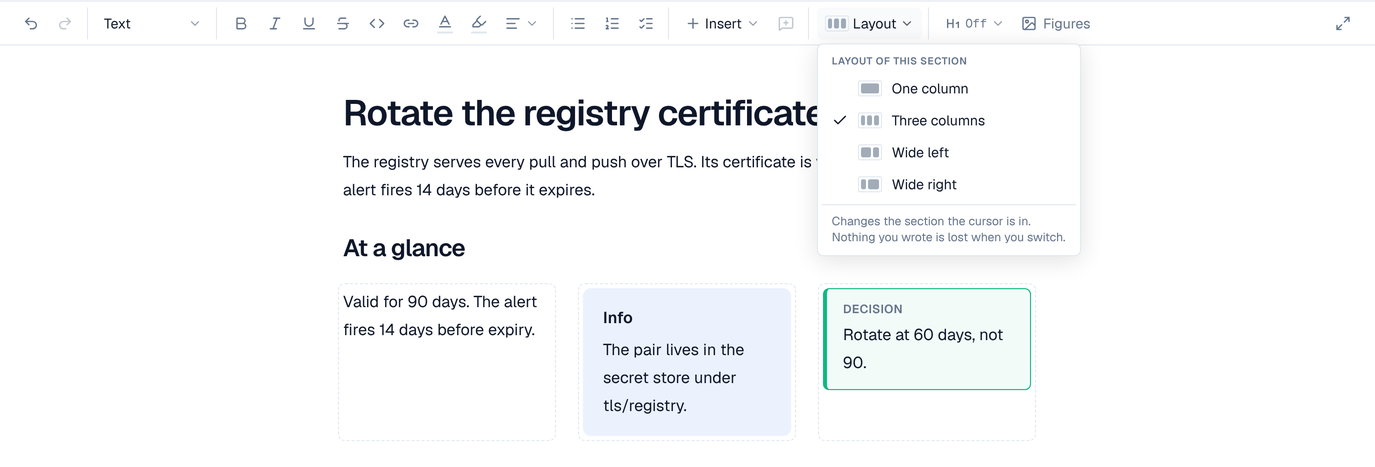
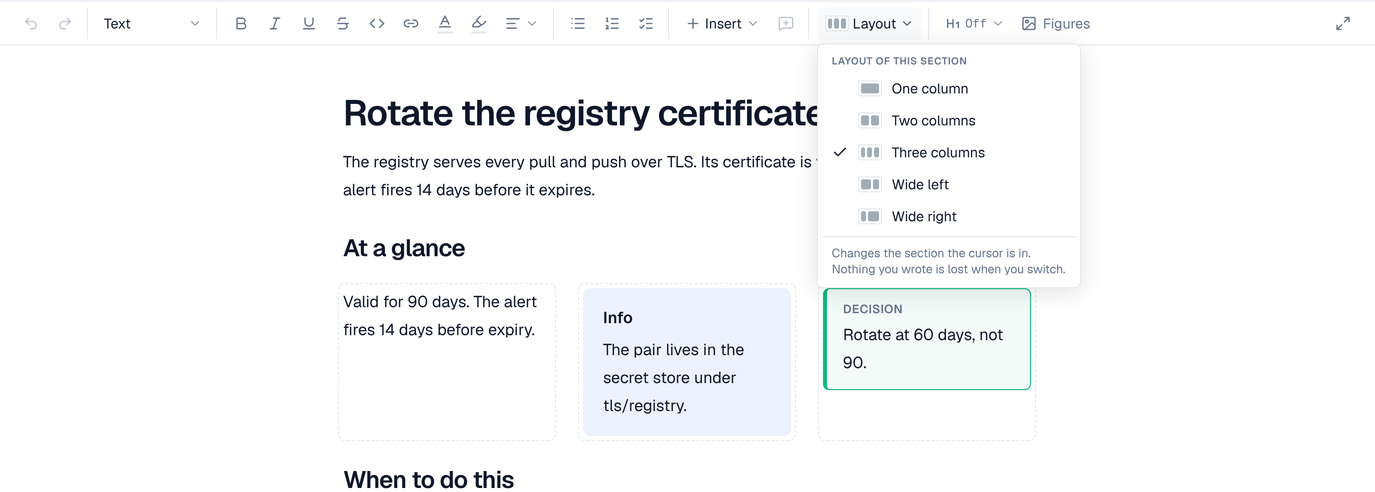
Wiki docs: Confluence layouts import as columns; Two columns layout
Claude-Session: https://claude.ai/code/session_015HRwaZfq9rZQUMM4xPuZvK

diff --git a/wiki/docs/changelog.html b/wiki/docs/changelog.html
@@ -40,7 +40,7 @@
 
       <article class="vc-doc">
       <h2 id="since-the-initial-release" class="text-2xl font-semibold mt-10 mb-4 scroll-mt-28">1. Since the initial release</h2>
-      <div class="tbl-wrap"><table><thead><tr><th>Date</th><th>Feature</th><th>Change</th></tr></thead><tbody><tr><td>2026-11-21</td><td>Editor</td><td>Sections: the editor groups a page into sections (a heading, text up to an empty line, each macro or other block) that can be moved up and down or selected whole from a handle at the right; text colour and highlight in six theme colours; and rows of columns (three equal, wide left, wide right) from the new Layout menu.</td></tr><tr><td>2026-11-20</td><td>Install</td><td>The reverse proxy can send everything under <span class="font-mono text-sm break-words">/api</span> straight to the server, and the Caddy and nginx examples now do: API calls no longer use the web app's CPU, which was the first thing to run out under load. The server sets the security headers of API responses itself. A proxy that routes only <span class="font-mono text-sm break-words">/api/ws</span> keeps working. See <a href="../admin/install.html" class="text-cta hover:underline">Install the Wiki</a>.</td></tr><tr><td>2026-11-20</td><td>Security</td><td>The server takes <span class="font-mono text-sm break-words">X-Forwarded-For</span>, <span class="font-mono text-sm break-words">X-Forwarded-Host</span>, <span class="font-mono text-sm break-words">X-Forwarded-Proto</span> and <span class="font-mono text-sm break-words">X-Real-IP</span> only from the proxies in <span class="font-mono text-sm break-words">TRUSTED_PROXIES</span> (the same host by default) and removes them from anyone else. If your reverse proxy runs on another host and isn't listed, add it: the system check's new <strong class="text-text">Forwarded headers</strong> line names an address that was refused.</td></tr><tr><td>2026-11-20</td><td>Performance</td><td>Pages are much smaller: each one carried every text of the screen's area again, and now the browser loads those once and keeps them.</td></tr><tr><td>2026-11-20</td><td>Sign-in</td><td>Links from invitation and password emails now open when the web app passes API calls on: the link's token was dropped on the way, so the page said the link was invalid.</td></tr><tr><td>2026-11-20</td><td>Interface</td><td>Counts read right for one: a board's "1 of 1 vote left", an import's "1 of 1 page", the Recently updated block's summary and the note when a mirror source is removed.</td></tr><tr><td>2026-11-19</td><td>Pages</td><td>Page locks: a page and the pages under it can be kept to some people and groups, or opened to everyone to read and only some to edit; locked pages stay out of the tree, search, labels, the calendar, analytics, alerts and blocks for everyone else, and space admins see and remove locks in Space settings → Locked pages.</td></tr><tr><td>2026-11-19</td><td>Spaces</td><td>Spaces get an icon (one of 24 built-in images, initials in a theme colour, or an uploaded image), up to 10 labels shared with pages, a category from Settings → Space categories, archiving (read-only until restored) and personal stars that pin spaces to the top of the space list, which can now be filtered by category and label.</td></tr><tr><td>2026-11-19</td><td>Templates</td><td>A template library under Settings → Templates that every space starts pages from, with twelve ready-made templates; a template can create a whole tree of pages; spaces can switch library templates off or keep their own version; and templates can be written in a template editor.</td></tr><tr><td>2026-11-18</td><td>Mirror spaces</td><td>Mirror spaces (Pro): a space can show the docs of a git repository (GitHub, GitLab, Gitea, Forgejo, Bitbucket Cloud) or of uploaded archives as read-only pages, synced on a schedule, by webhook or from a pipeline, with suggested edits as pull or merge requests and a button to convert the space back. A mirror space is chosen when the space is created and has only the tabs a mirror needs.</td></tr><tr><td>2026-11-18</td><td>Pages</td><td>Mermaid diagrams: flowcharts, sequence diagrams and more drawn from text on any page, in the reader's light or dark theme.</td></tr><tr><td>2026-11-18</td><td>Pages</td><td>HTML blocks: space admins can run their own HTML, CSS and JavaScript on pages in a sandbox that reaches only the sites listed in Settings → Security → HTML blocks (off by default).</td></tr><tr><td>2026-11-18</td><td>Whiteboards</td><td>Whiteboards are safer to share: visitors of public spaces who aren't signed in no longer see history or downloads, a board too large to read keeps showing its last picture and can be reset to it, very complex boards are drawn within limits (downloads say when a board is too complex), and new comment pins need the Enterprise licence.</td></tr><tr><td>2026-11-18</td><td>Whiteboards</td><td>Whiteboards can be facilitated (a shared timer, dot voting, private mode that hides new notes until revealed, and follow me), new boards can start with notes hidden, mind maps grow with Enter and Tab, an items list reads the board in order for keyboards and screen readers, and the toolbar folds to seven tools on phones.</td></tr><tr><td>2026-11-18</td><td>Whiteboards</td><td>Live whiteboards (Enterprise): sticky notes, pens, shapes, connectors and frames drawn together with everyone's cursors, six canvas types and space templates, comments, versions and downloads, a read-only view, and a whiteboard block for pages.</td></tr><tr><td>2026-11-18</td><td>Space blogs</td><td>Blog posts in a Confluence export can become posts on the space's blog, a post downloaded as Word or PDF starts with its date, authors and cover image, and plugins can add a panel to a space's Blog tab.</td></tr><tr><td>2026-11-18</td><td>Space blogs</td><td>A Blogs page gathers the posts of every blog you can read, the dashboard shows the latest posts of the blogs you follow, search finds posts, and space analytics have a Posts tab.</td></tr><tr><td>2026-11-17</td><td>Space blogs</td><td>Blogs can require review before a post is first published, tell their followers about new posts, and be followed in a feed reader through a public or personal feed address.</td></tr><tr><td>2026-11-17</td><td>Space blogs</td><td>Each space has a Blog tab for dated posts, with featured posts, an archive by month, following, co-authors, cover images and blog settings for space admins.</td></tr></tbody></table></div>
+      <div class="tbl-wrap"><table><thead><tr><th>Date</th><th>Feature</th><th>Change</th></tr></thead><tbody><tr><td>2026-11-21</td><td>Imports</td><td>Confluence page layouts are imported as rows of columns instead of one block under the other, and the editor's Layout menu gains Two columns.</td></tr><tr><td>2026-11-21</td><td>Editor</td><td>Sections: the editor groups a page into sections (a heading, text up to an empty line, each macro or other block) that can be moved up and down or selected whole from a handle at the right; text colour and highlight in six theme colours; and rows of columns (three equal, wide left, wide right) from the new Layout menu.</td></tr><tr><td>2026-11-20</td><td>Install</td><td>The reverse proxy can send everything under <span class="font-mono text-sm break-words">/api</span> straight to the server, and the Caddy and nginx examples now do: API calls no longer use the web app's CPU, which was the first thing to run out under load. The server sets the security headers of API responses itself. A proxy that routes only <span class="font-mono text-sm break-words">/api/ws</span> keeps working. See <a href="../admin/install.html" class="text-cta hover:underline">Install the Wiki</a>.</td></tr><tr><td>2026-11-20</td><td>Security</td><td>The server takes <span class="font-mono text-sm break-words">X-Forwarded-For</span>, <span class="font-mono text-sm break-words">X-Forwarded-Host</span>, <span class="font-mono text-sm break-words">X-Forwarded-Proto</span> and <span class="font-mono text-sm break-words">X-Real-IP</span> only from the proxies in <span class="font-mono text-sm break-words">TRUSTED_PROXIES</span> (the same host by default) and removes them from anyone else. If your reverse proxy runs on another host and isn't listed, add it: the system check's new <strong class="text-text">Forwarded headers</strong> line names an address that was refused.</td></tr><tr><td>2026-11-20</td><td>Performance</td><td>Pages are much smaller: each one carried every text of the screen's area again, and now the browser loads those once and keeps them.</td></tr><tr><td>2026-11-20</td><td>Sign-in</td><td>Links from invitation and password emails now open when the web app passes API calls on: the link's token was dropped on the way, so the page said the link was invalid.</td></tr><tr><td>2026-11-20</td><td>Interface</td><td>Counts read right for one: a board's "1 of 1 vote left", an import's "1 of 1 page", the Recently updated block's summary and the note when a mirror source is removed.</td></tr><tr><td>2026-11-19</td><td>Pages</td><td>Page locks: a page and the pages under it can be kept to some people and groups, or opened to everyone to read and only some to edit; locked pages stay out of the tree, search, labels, the calendar, analytics, alerts and blocks for everyone else, and space admins see and remove locks in Space settings → Locked pages.</td></tr><tr><td>2026-11-19</td><td>Spaces</td><td>Spaces get an icon (one of 24 built-in images, initials in a theme colour, or an uploaded image), up to 10 labels shared with pages, a category from Settings → Space categories, archiving (read-only until restored) and personal stars that pin spaces to the top of the space list, which can now be filtered by category and label.</td></tr><tr><td>2026-11-19</td><td>Templates</td><td>A template library under Settings → Templates that every space starts pages from, with twelve ready-made templates; a template can create a whole tree of pages; spaces can switch library templates off or keep their own version; and templates can be written in a template editor.</td></tr><tr><td>2026-11-18</td><td>Mirror spaces</td><td>Mirror spaces (Pro): a space can show the docs of a git repository (GitHub, GitLab, Gitea, Forgejo, Bitbucket Cloud) or of uploaded archives as read-only pages, synced on a schedule, by webhook or from a pipeline, with suggested edits as pull or merge requests and a button to convert the space back. A mirror space is chosen when the space is created and has only the tabs a mirror needs.</td></tr><tr><td>2026-11-18</td><td>Pages</td><td>Mermaid diagrams: flowcharts, sequence diagrams and more drawn from text on any page, in the reader's light or dark theme.</td></tr><tr><td>2026-11-18</td><td>Pages</td><td>HTML blocks: space admins can run their own HTML, CSS and JavaScript on pages in a sandbox that reaches only the sites listed in Settings → Security → HTML blocks (off by default).</td></tr><tr><td>2026-11-18</td><td>Whiteboards</td><td>Whiteboards are safer to share: visitors of public spaces who aren't signed in no longer see history or downloads, a board too large to read keeps showing its last picture and can be reset to it, very complex boards are drawn within limits (downloads say when a board is too complex), and new comment pins need the Enterprise licence.</td></tr><tr><td>2026-11-18</td><td>Whiteboards</td><td>Whiteboards can be facilitated (a shared timer, dot voting, private mode that hides new notes until revealed, and follow me), new boards can start with notes hidden, mind maps grow with Enter and Tab, an items list reads the board in order for keyboards and screen readers, and the toolbar folds to seven tools on phones.</td></tr><tr><td>2026-11-18</td><td>Whiteboards</td><td>Live whiteboards (Enterprise): sticky notes, pens, shapes, connectors and frames drawn together with everyone's cursors, six canvas types and space templates, comments, versions and downloads, a read-only view, and a whiteboard block for pages.</td></tr><tr><td>2026-11-18</td><td>Space blogs</td><td>Blog posts in a Confluence export can become posts on the space's blog, a post downloaded as Word or PDF starts with its date, authors and cover image, and plugins can add a panel to a space's Blog tab.</td></tr><tr><td>2026-11-18</td><td>Space blogs</td><td>A Blogs page gathers the posts of every blog you can read, the dashboard shows the latest posts of the blogs you follow, search finds posts, and space analytics have a Posts tab.</td></tr><tr><td>2026-11-17</td><td>Space blogs</td><td>Blogs can require review before a post is first published, tell their followers about new posts, and be followed in a feed reader through a public or personal feed address.</td></tr><tr><td>2026-11-17</td><td>Space blogs</td><td>Each space has a Blog tab for dated posts, with featured posts, an archive by month, following, co-authors, cover images and blog settings for space admins.</td></tr></tbody></table></div>
       <h2 id="initial-release" class="text-2xl font-semibold mt-10 mb-4 scroll-mt-28">2. Initial release</h2>
       <p class="text-muted mb-4">The first release of the Wiki: a self-hosted team wiki that runs on a single server or as a cluster, with the same features either way. Later releases are listed above this one as they ship.</p>
       <div class="tbl-wrap"><table><thead><tr><th>Area</th><th>What's included</th></tr></thead><tbody><tr><td>Spaces</td><td><a href="spaces.html" class="text-cta hover:underline">Spaces</a> that are private, internal or public, with roles for people and groups, a page tree, space settings, templates and a trash for deleted pages.</td></tr><tr><td>Pages and the editor</td><td>A Word-like <a href="editor.html" class="text-cta hover:underline">editor</a> with headings and heading numbers, lists, tables, images with captions, videos and the "/" menu; <a href="macros.html" class="text-cta hover:underline">blocks and macros</a> such as panels, expands, decisions, excerpts and includes, page properties and reports, status, child pages, the page tree, recently updated and spreadsheet tables with formulas; <a href="labels-and-feedback.html" class="text-cta hover:underline">labels and "Was this page helpful?"</a>; <a href="copies-and-templates.html" class="text-cta hover:underline">copies and templates</a>.</td></tr><tr><td>Writing together</td><td><a href="editing-together.html" class="text-cta hover:underline">Live editing</a> with everyone's cursors, autosave, <a href="drafts-and-publishing.html" class="text-cta hover:underline">drafts, publishing and scheduled publishing</a>, <a href="reviews.html" class="text-cta hover:underline">review requests and review-by dates</a>, <a href="page-history-and-versions.html" class="text-cta hover:underline">versions you can compare and restore</a>, <a href="comments.html" class="text-cta hover:underline">comments</a>, and <a href="profile-and-notifications.html" class="text-cta hover:underline">watching and mentions</a>.</td></tr><tr><td>Q&amp;A</td><td>Company-wide <a href="qna.html" class="text-cta hover:underline">questions and answers</a>: votes, accepted answers, comments, follows, duplicates, mentions of people and pages, reputation, and public questions for anonymous readers; <a href="../admin/qna-moderation.html" class="text-cta hover:underline">moderation</a>.</td></tr><tr><td>Calendars</td><td><a href="calendar.html" class="text-cta hover:underline">Space calendars</a> with events, leave and repeats, publishing plans and review dates, and a <a href="../admin/calendar-feeds.html" class="text-cta hover:underline">secret feed address</a> for calendar apps.</td></tr><tr><td>Analytics</td><td><a href="analytics.html" class="text-cta hover:underline">Page, space and personal analytics</a> and content health (stale pages, old drafts, broken links, disliked pages, searches that find nothing), with CSV export (Pro).</td></tr><tr><td>Moving content</td><td><a href="import-and-export.html" class="text-cta hover:underline">Import</a> Markdown files or <a href="../admin/confluence-import.html" class="text-cta hover:underline">a space from Confluence</a>, <a href="mirror-spaces.html" class="text-cta hover:underline">mirror</a> a docs repository, and export pages as Word or PDF.</td></tr><tr><td>Readers outside the company</td><td><a href="../admin/anonymous-access.html" class="text-cta hover:underline">Anonymous access</a> to public spaces and public questions, and <a href="../admin/search-engines-and-robots.html" class="text-cta hover:underline">robots.txt for search engines</a>.</td></tr><tr><td>Platform</td><td>Everything the Wiki shares with Depotex: <a href="../admin/users-and-directories.html" class="text-cta hover:underline">users and directories</a>, <a href="../admin/single-sign-on.html" class="text-cta hover:underline">single sign-on</a>, <a href="api-tokens.html" class="text-cta hover:underline">API tokens</a>, <a href="oauth-applications.html" class="text-cta hover:underline">OAuth applications</a>, <a href="../admin/rate-limits.html" class="text-cta hover:underline">rate limits</a>, <a href="../admin/policies.html" class="text-cta hover:underline">policies</a>, <a href="../admin/automation.html" class="text-cta hover:underline">automation</a> on <a href="events.html" class="text-cta hover:underline">events</a>, <a href="../admin/plugins.html" class="text-cta hover:underline">plugins</a> (including plugin blocks in pages), the <a href="../admin/logging-and-audit.html" class="text-cta hover:underline">audit log</a>, <a href="../admin/personal-data.html" class="text-cta hover:underline">personal data export and erasure</a>, <a href="../admin/backups.html" class="text-cta hover:underline">backups</a>, the <a href="../admin/system-check.html" class="text-cta hover:underline">system check</a>, <a href="../admin/monitoring.html" class="text-cta hover:underline">monitoring</a>, <a href="../admin/email.html" class="text-cta hover:underline">email</a> and <a href="../admin/branding-and-banners.html" class="text-cta hover:underline">branding</a>.</td></tr><tr><td>Installation</td><td>A <a href="../admin/setup-wizard.html" class="text-cta hover:underline">setup wizard</a> or an <a href="../admin/headless-setup.html" class="text-cta hover:underline">unattended setup file</a>; a <a href="../admin/deployment-modes.html" class="text-cta hover:underline">single server or a cluster</a>; <a href="../admin/storage.html" class="text-cta hover:underline">storage</a> on a local disk, S3, MinIO or Azure Blob; <a href="../admin/recovery.html" class="text-cta hover:underline">recovery mode</a> when an installed server can't start; phones and tablets supported throughout (<a href="mobile.html" class="text-cta hover:underline">Mobile</a>).</td></tr></tbody></table></div>

diff --git a/wiki/docs/editor.html b/wiki/docs/editor.html
@@ -67,7 +67,7 @@
         </div>
         <figcaption class="text-xs text-muted mt-2">The formatting toolbar</figcaption>
       </figure>
-      <div class="tbl-wrap"><table><thead><tr><th>Group</th><th>Tools</th></tr></thead><tbody><tr><td>Text style</td><td><strong class="text-text">Text</strong>, <strong class="text-text">Heading 1</strong>, <strong class="text-text">Heading 2</strong>, <strong class="text-text">Heading 3</strong>, <strong class="text-text">Code block</strong></td></tr><tr><td>History</td><td><strong class="text-text">Undo</strong>, <strong class="text-text">Redo</strong> (your own changes only, not other people's)</td></tr><tr><td>Marks</td><td><strong class="text-text">Bold</strong>, <strong class="text-text">Italic</strong>, <strong class="text-text">Underline</strong>, <strong class="text-text">Strikethrough</strong>, <strong class="text-text">Code</strong>, <strong class="text-text">Text colour</strong>, <strong class="text-text">Highlight</strong></td></tr><tr><td>Alignment</td><td><strong class="text-text">Align left</strong>, <strong class="text-text">Center</strong>, <strong class="text-text">Align right</strong>, <strong class="text-text">Justify</strong></td></tr><tr><td>Lists</td><td><strong class="text-text">Bulleted list</strong>, <strong class="text-text">Numbered list</strong>, <strong class="text-text">Checklist</strong>, <strong class="text-text">Outdent</strong>, <strong class="text-text">Indent</strong></td></tr><tr><td>Blocks</td><td><strong class="text-text">Quote</strong>, <strong class="text-text">Divider</strong></td></tr><tr><td>Insert</td><td><strong class="text-text">Link</strong>, <strong class="text-text">Insert image</strong>, <strong class="text-text">Insert video</strong>, <strong class="text-text">Insert table of contents</strong>, <strong class="text-text">Insert table</strong></td></tr><tr><td>Layout</td><td><strong class="text-text">One column</strong>, <strong class="text-text">Three columns</strong>, <strong class="text-text">Wide left</strong>, <strong class="text-text">Wide right</strong> for the section the cursor is in</td></tr><tr><td>Other</td><td><strong class="text-text">Comment on selection</strong>, <strong class="text-text">Full screen</strong></td></tr></tbody></table></div>
+      <div class="tbl-wrap"><table><thead><tr><th>Group</th><th>Tools</th></tr></thead><tbody><tr><td>Text style</td><td><strong class="text-text">Text</strong>, <strong class="text-text">Heading 1</strong>, <strong class="text-text">Heading 2</strong>, <strong class="text-text">Heading 3</strong>, <strong class="text-text">Code block</strong></td></tr><tr><td>History</td><td><strong class="text-text">Undo</strong>, <strong class="text-text">Redo</strong> (your own changes only, not other people's)</td></tr><tr><td>Marks</td><td><strong class="text-text">Bold</strong>, <strong class="text-text">Italic</strong>, <strong class="text-text">Underline</strong>, <strong class="text-text">Strikethrough</strong>, <strong class="text-text">Code</strong>, <strong class="text-text">Text colour</strong>, <strong class="text-text">Highlight</strong></td></tr><tr><td>Alignment</td><td><strong class="text-text">Align left</strong>, <strong class="text-text">Center</strong>, <strong class="text-text">Align right</strong>, <strong class="text-text">Justify</strong></td></tr><tr><td>Lists</td><td><strong class="text-text">Bulleted list</strong>, <strong class="text-text">Numbered list</strong>, <strong class="text-text">Checklist</strong>, <strong class="text-text">Outdent</strong>, <strong class="text-text">Indent</strong></td></tr><tr><td>Blocks</td><td><strong class="text-text">Quote</strong>, <strong class="text-text">Divider</strong></td></tr><tr><td>Insert</td><td><strong class="text-text">Link</strong>, <strong class="text-text">Insert image</strong>, <strong class="text-text">Insert video</strong>, <strong class="text-text">Insert table of contents</strong>, <strong class="text-text">Insert table</strong></td></tr><tr><td>Layout</td><td><strong class="text-text">One column</strong>, <strong class="text-text">Two columns</strong>, <strong class="text-text">Three columns</strong>, <strong class="text-text">Wide left</strong>, <strong class="text-text">Wide right</strong> for the section the cursor is in</td></tr><tr><td>Other</td><td><strong class="text-text">Comment on selection</strong>, <strong class="text-text">Full screen</strong></td></tr></tbody></table></div>
       <p class="text-muted mb-4">When a table, image, video or block is selected, its own settings appear in the toolbar (<strong class="text-text">Table</strong>, <strong class="text-text">Image settings</strong>, <strong class="text-text">Video settings</strong>, <strong class="text-text">Block settings</strong>). On a phone, the toolbar scrolls sideways.</p>
       <h2 id="the-menu" class="text-2xl font-semibold mt-10 mb-4 scroll-mt-28">3. The "/" menu</h2>
       <p class="text-muted mb-4">Type <strong class="text-text">/</strong> at the start of a line or after a space to insert any block. Keep typing to narrow the list, use <strong class="text-text">↑</strong> and <strong class="text-text">↓</strong> to move, <strong class="text-text">Enter</strong> to insert and <strong class="text-text">Esc</strong> to close it.</p>
@@ -117,7 +117,7 @@
         <figcaption class="text-xs text-muted mt-2">A selected section with the text colour choices open</figcaption>
       </figure>
       <h2 id="columns" class="text-2xl font-semibold mt-10 mb-4 scroll-mt-28">6. Columns</h2>
-      <p class="text-muted mb-4"><strong class="text-text">Layout</strong> in the toolbar puts the section the cursor is in into a row of columns: <strong class="text-text">Three columns</strong> of equal width, <strong class="text-text">Wide left</strong> (two thirds and one third) or <strong class="text-text">Wide right</strong> (one third and two thirds). What you had written goes into the first column. <strong class="text-text">/columns</strong> inserts a three-column row too.</p>
+      <p class="text-muted mb-4"><strong class="text-text">Layout</strong> in the toolbar puts the section the cursor is in into a row of columns: <strong class="text-text">Two columns</strong> or <strong class="text-text">Three columns</strong> of equal width, <strong class="text-text">Wide left</strong> (two thirds and one third) or <strong class="text-text">Wide right</strong> (one third and two thirds). What you had written goes into the first column. <strong class="text-text">/columns</strong> inserts a three-column row too.</p>
       <figure class="shot mb-6">
         <img src="../assets/editor-layout-menu.png" alt="The Layout menu, and a three-column row holding text, a panel and a decision" loading="lazy"
              class="rounded-lg border border-border"
@@ -130,7 +130,7 @@
         </div>
         <figcaption class="text-xs text-muted mt-2">The Layout menu, and a three-column row holding text, a panel and a decision</figcaption>
       </figure>
-      <ul class="text-muted mb-4 space-y-2 list-disc pl-6"><li>A column holds anything a page does: text, lists, images, tables, panels and other macros. A block stays inside the column it is in and is never wider than it.</li><li>Switching between the layouts keeps what you wrote: going from three columns to two adds the third column's content to the second. <strong class="text-text">One column</strong> turns the row back into ordinary blocks.</li><li>The whole row is one section: its handle moves all the columns together.</li><li>The dashed outlines around the columns show only while the pointer or the cursor is in the row. Readers never see them.</li><li>On a phone, and on any screen narrower than a tablet, columns stack one under the other, first column first.</li></ul>
+      <ul class="text-muted mb-4 space-y-2 list-disc pl-6"><li>A column holds anything a page does: text, lists, images, tables, panels and other macros. A block stays inside the column it is in and is never wider than it.</li><li>Switching between the layouts keeps what you wrote: going from three columns to two adds the third column's content to the second. <strong class="text-text">One column</strong> turns the row back into ordinary blocks.</li><li>The whole row is one section: its handle moves all the columns together.</li><li>The dashed outlines around the columns show only while the pointer or the cursor is in the row. Readers never see them.</li><li>On a phone, and on any screen narrower than a tablet, columns stack one under the other, first column first.</li><li>Pages <a href="import-and-export.html#import-from-confluence" class="text-cta hover:underline">imported from Confluence</a> keep their page layouts as rows of columns.</li></ul>
       <figure class="shot mb-6">
         <img src="../assets/editor-columns-reading.png" alt="The same page as readers see it: three columns, and a highlighted paragraph" loading="lazy"
              class="rounded-lg border border-border"

diff --git a/wiki/admin/confluence-import.html b/wiki/admin/confluence-import.html
@@ -69,7 +69,7 @@
         </div>
         <figcaption class="text-xs text-muted mt-2">A space's Import tab: choose a Confluence export or Markdown, and earlier imports</figcaption>
       </figure>
-      <div class="tbl-wrap"><table><thead><tr><th>Source</th><th>What comes in</th></tr></thead><tbody><tr><td><strong class="text-text">Confluence space export</strong> (Space tools → Export, XML, full export, a <span class="font-mono text-sm break-words">.zip</span>)</td><td>Pages with their tree, versions with dates and authors, comments, labels, blog posts (as posts on the space's blog, or under a page you name), and images and videos as attachments. Common macros become Wiki blocks; others become a plain-text block a plugin may convert</td></tr><tr><td><strong class="text-text">Markdown</strong>: one <span class="font-mono text-sm break-words">.md</span> file, or a <span class="font-mono text-sm break-words">.zip</span> of a folder</td><td>Each folder becomes a page holding its files' pages (<span class="font-mono text-sm break-words">index.md</span> or <span class="font-mono text-sm break-words">README.md</span> is the folder's text); titles from front matter or the first heading; <span class="font-mono text-sm break-words">tags</span> become labels; images in the upload become attachments</td></tr></tbody></table></div>
+      <div class="tbl-wrap"><table><thead><tr><th>Source</th><th>What comes in</th></tr></thead><tbody><tr><td><strong class="text-text">Confluence space export</strong> (Space tools → Export, XML, full export, a <span class="font-mono text-sm break-words">.zip</span>)</td><td>Pages with their tree, versions with dates and authors, comments, labels, blog posts (as posts on the space's blog, or under a page you name), and images and videos as attachments. Page layouts become <a href="../docs/editor.html#columns" class="text-cta hover:underline">rows of columns</a>: two equal columns, a left or right sidebar and three equal columns keep their shape, and three columns with sidebars become three equal columns. Common macros become Wiki blocks; others become a plain-text block a plugin may convert</td></tr><tr><td><strong class="text-text">Markdown</strong>: one <span class="font-mono text-sm break-words">.md</span> file, or a <span class="font-mono text-sm break-words">.zip</span> of a folder</td><td>Each folder becomes a page holding its files' pages (<span class="font-mono text-sm break-words">index.md</span> or <span class="font-mono text-sm break-words">README.md</span> is the folder's text); titles from front matter or the first heading; <span class="font-mono text-sm break-words">tags</span> become labels; images in the upload become attachments</td></tr></tbody></table></div>
       <ul class="text-muted mb-4 space-y-2 list-disc pl-6"><li>Every import is <strong class="text-text">checked first</strong> (a dry run with a report) and writes nothing until the space admin starts it.</li><li>Authors are matched to accounts by email; others keep the name the export gave.</li><li>Importing the same export again <strong class="text-text">updates</strong> the pages the earlier import made, and leaves pages edited in the Wiki since as they are.</li><li>Uploads resume after a dropped connection. Imports run in the background, one step at a time, on any server.</li></ul>
       <h2 id="what-isn-t-imported" class="text-2xl font-semibold mt-10 mb-4 scroll-mt-28">3. What isn't imported</h2>
       <ul class="text-muted mb-4 space-y-2 list-disc pl-6"><li>View and edit restrictions: imported pages get the space's access.</li><li>Attachments other than images and videos.</li><li>Notifications: nobody is told about imported pages, comments or mentions.</li><li>Other formats than Confluence XML exports and Markdown.</li></ul>

diff --git a/wiki/_build/content_user_a.py b/wiki/_build/content_user_a.py
@@ -503,7 +503,7 @@ USER_A = [
                 ["Lists", "**Bulleted list**, **Numbered list**, **Checklist**, **Outdent**, **Indent**"],
                 ["Blocks", "**Quote**, **Divider**"],
                 ["Insert", "**Link**, **Insert image**, **Insert video**, **Insert table of contents**, **Insert table**"],
-                ["Layout", "**One column**, **Three columns**, **Wide left**, **Wide right** for the section the cursor is in"],
+                ["Layout", "**One column**, **Two columns**, **Three columns**, **Wide left**, **Wide right** for the section the cursor is in"],
                 ["Other", "**Comment on selection**, **Full screen**"],
             ]),
             P("When a table, image, video or block is selected, its own settings appear in the toolbar (**Table**, **Image settings**, **Video settings**, **Block settings**). On a phone, the toolbar scrolls sideways."),
@@ -533,7 +533,7 @@ USER_A = [
             SHOT("editor-text-colour.png", "A selected section with the text colour choices open"),
 
             H("Columns"),
-            P("**Layout** in the toolbar puts the section the cursor is in into a row of columns: **Three columns** of equal width, **Wide left** (two thirds and one third) or **Wide right** (one third and two thirds). What you had written goes into the first column. **/columns** inserts a three-column row too."),
+            P("**Layout** in the toolbar puts the section the cursor is in into a row of columns: **Two columns** or **Three columns** of equal width, **Wide left** (two thirds and one third) or **Wide right** (one third and two thirds). What you had written goes into the first column. **/columns** inserts a three-column row too."),
             SHOT("editor-layout-menu.png", "The Layout menu, and a three-column row holding text, a panel and a decision"),
             UL([
                 "A column holds anything a page does: text, lists, images, tables, panels and other macros. A block stays inside the column it is in and is never wider than it.",
@@ -541,6 +541,7 @@ USER_A = [
                 "The whole row is one section: its handle moves all the columns together.",
                 "The dashed outlines around the columns show only while the pointer or the cursor is in the row. Readers never see them.",
                 "On a phone, and on any screen narrower than a tablet, columns stack one under the other, first column first.",
+                "Pages [imported from Confluence](import-and-export.html#import-from-confluence) keep their page layouts as rows of columns.",
             ]),
             SHOT("editor-columns-reading.png", "The same page as readers see it: three columns, and a highlighted paragraph"),
             NOTE("A row of columns can't be put inside another row, a table or a panel. Word and PDF exports print the columns one after the other."),

diff --git a/wiki/_build/content.py b/wiki/_build/content.py
@@ -15,6 +15,7 @@ from content_platform_operate import PLATFORM_OPERATE
 # Releases after the initial one, newest first: (date, feature, one-sentence change).
 # Only changes people using or running the Wiki notice; nothing internal.
 CHANGELOG = [
+    ("2026-11-21", "Imports", "Confluence page layouts are imported as rows of columns instead of one block under the other, and the editor's Layout menu gains Two columns."),
     ("2026-11-21", "Editor", "Sections: the editor groups a page into sections (a heading, text up to an empty line, each macro or other block) that can be moved up and down or selected whole from a handle at the right; text colour and highlight in six theme colours; and rows of columns (three equal, wide left, wide right) from the new Layout menu."),
     ("2026-11-20", "Install", "The reverse proxy can send everything under `/api` straight to the server, and the Caddy and nginx examples now do: API calls no longer use the web app's CPU, which was the first thing to run out under load. The server sets the security headers of API responses itself. A proxy that routes only `/api/ws` keeps working. See [Install the Wiki](install.html)."),
     ("2026-11-20", "Security", "The server takes `X-Forwarded-For`, `X-Forwarded-Host`, `X-Forwarded-Proto` and `X-Real-IP` only from the proxies in `TRUSTED_PROXIES` (the same host by default) and removes them from anyone else. If your reverse proxy runs on another host and isn't listed, add it: the system check's new **Forwarded headers** line names an address that was refused."),

diff --git a/wiki/_build/content_admin_wiki.py b/wiki/_build/content_admin_wiki.py
@@ -891,7 +891,7 @@ admin:
             H("What can be imported"),
             SHOT("confluence-import-space-tab.png", "A space's Import tab: choose a Confluence export or Markdown, and earlier imports"),
             TABLE(["Source", "What comes in"], [
-                ["**Confluence space export** (Space tools → Export, XML, full export, a `.zip`)", "Pages with their tree, versions with dates and authors, comments, labels, blog posts (as posts on the space's blog, or under a page you name), and images and videos as attachments. Common macros become Wiki blocks; others become a plain-text block a plugin may convert"],
+                ["**Confluence space export** (Space tools → Export, XML, full export, a `.zip`)", "Pages with their tree, versions with dates and authors, comments, labels, blog posts (as posts on the space's blog, or under a page you name), and images and videos as attachments. Page layouts become [rows of columns](editor.html#columns): two equal columns, a left or right sidebar and three equal columns keep their shape, and three columns with sidebars become three equal columns. Common macros become Wiki blocks; others become a plain-text block a plugin may convert"],
                 ["**Markdown**: one `.md` file, or a `.zip` of a folder", "Each folder becomes a page holding its files' pages (`index.md` or `README.md` is the folder's text); titles from front matter or the first heading; `tags` become labels; images in the upload become attachments"],
             ]),
             UL([
